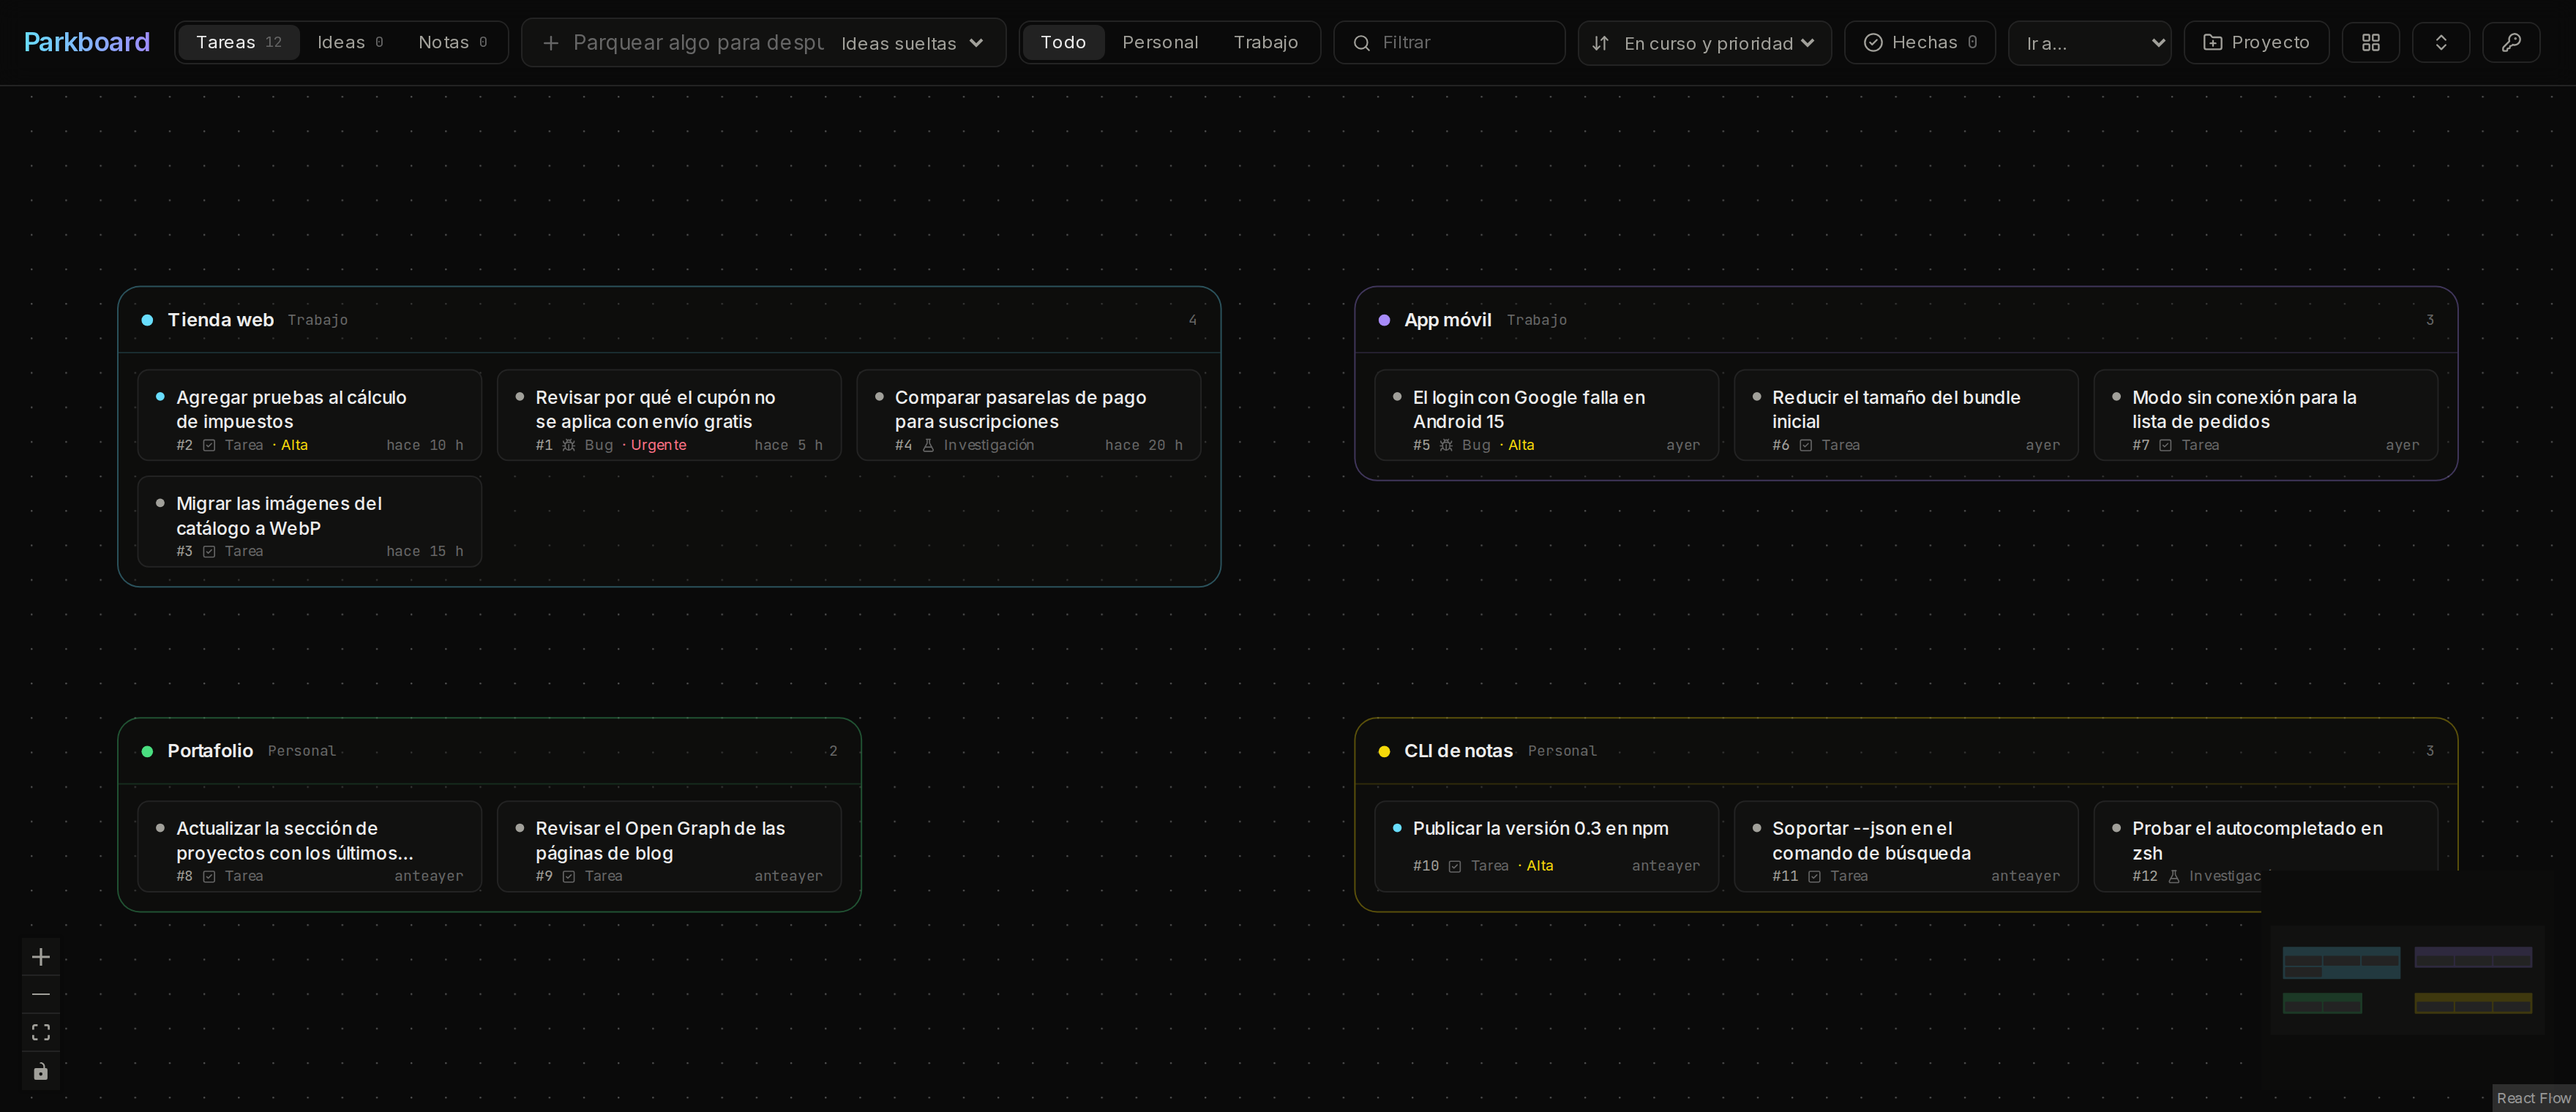
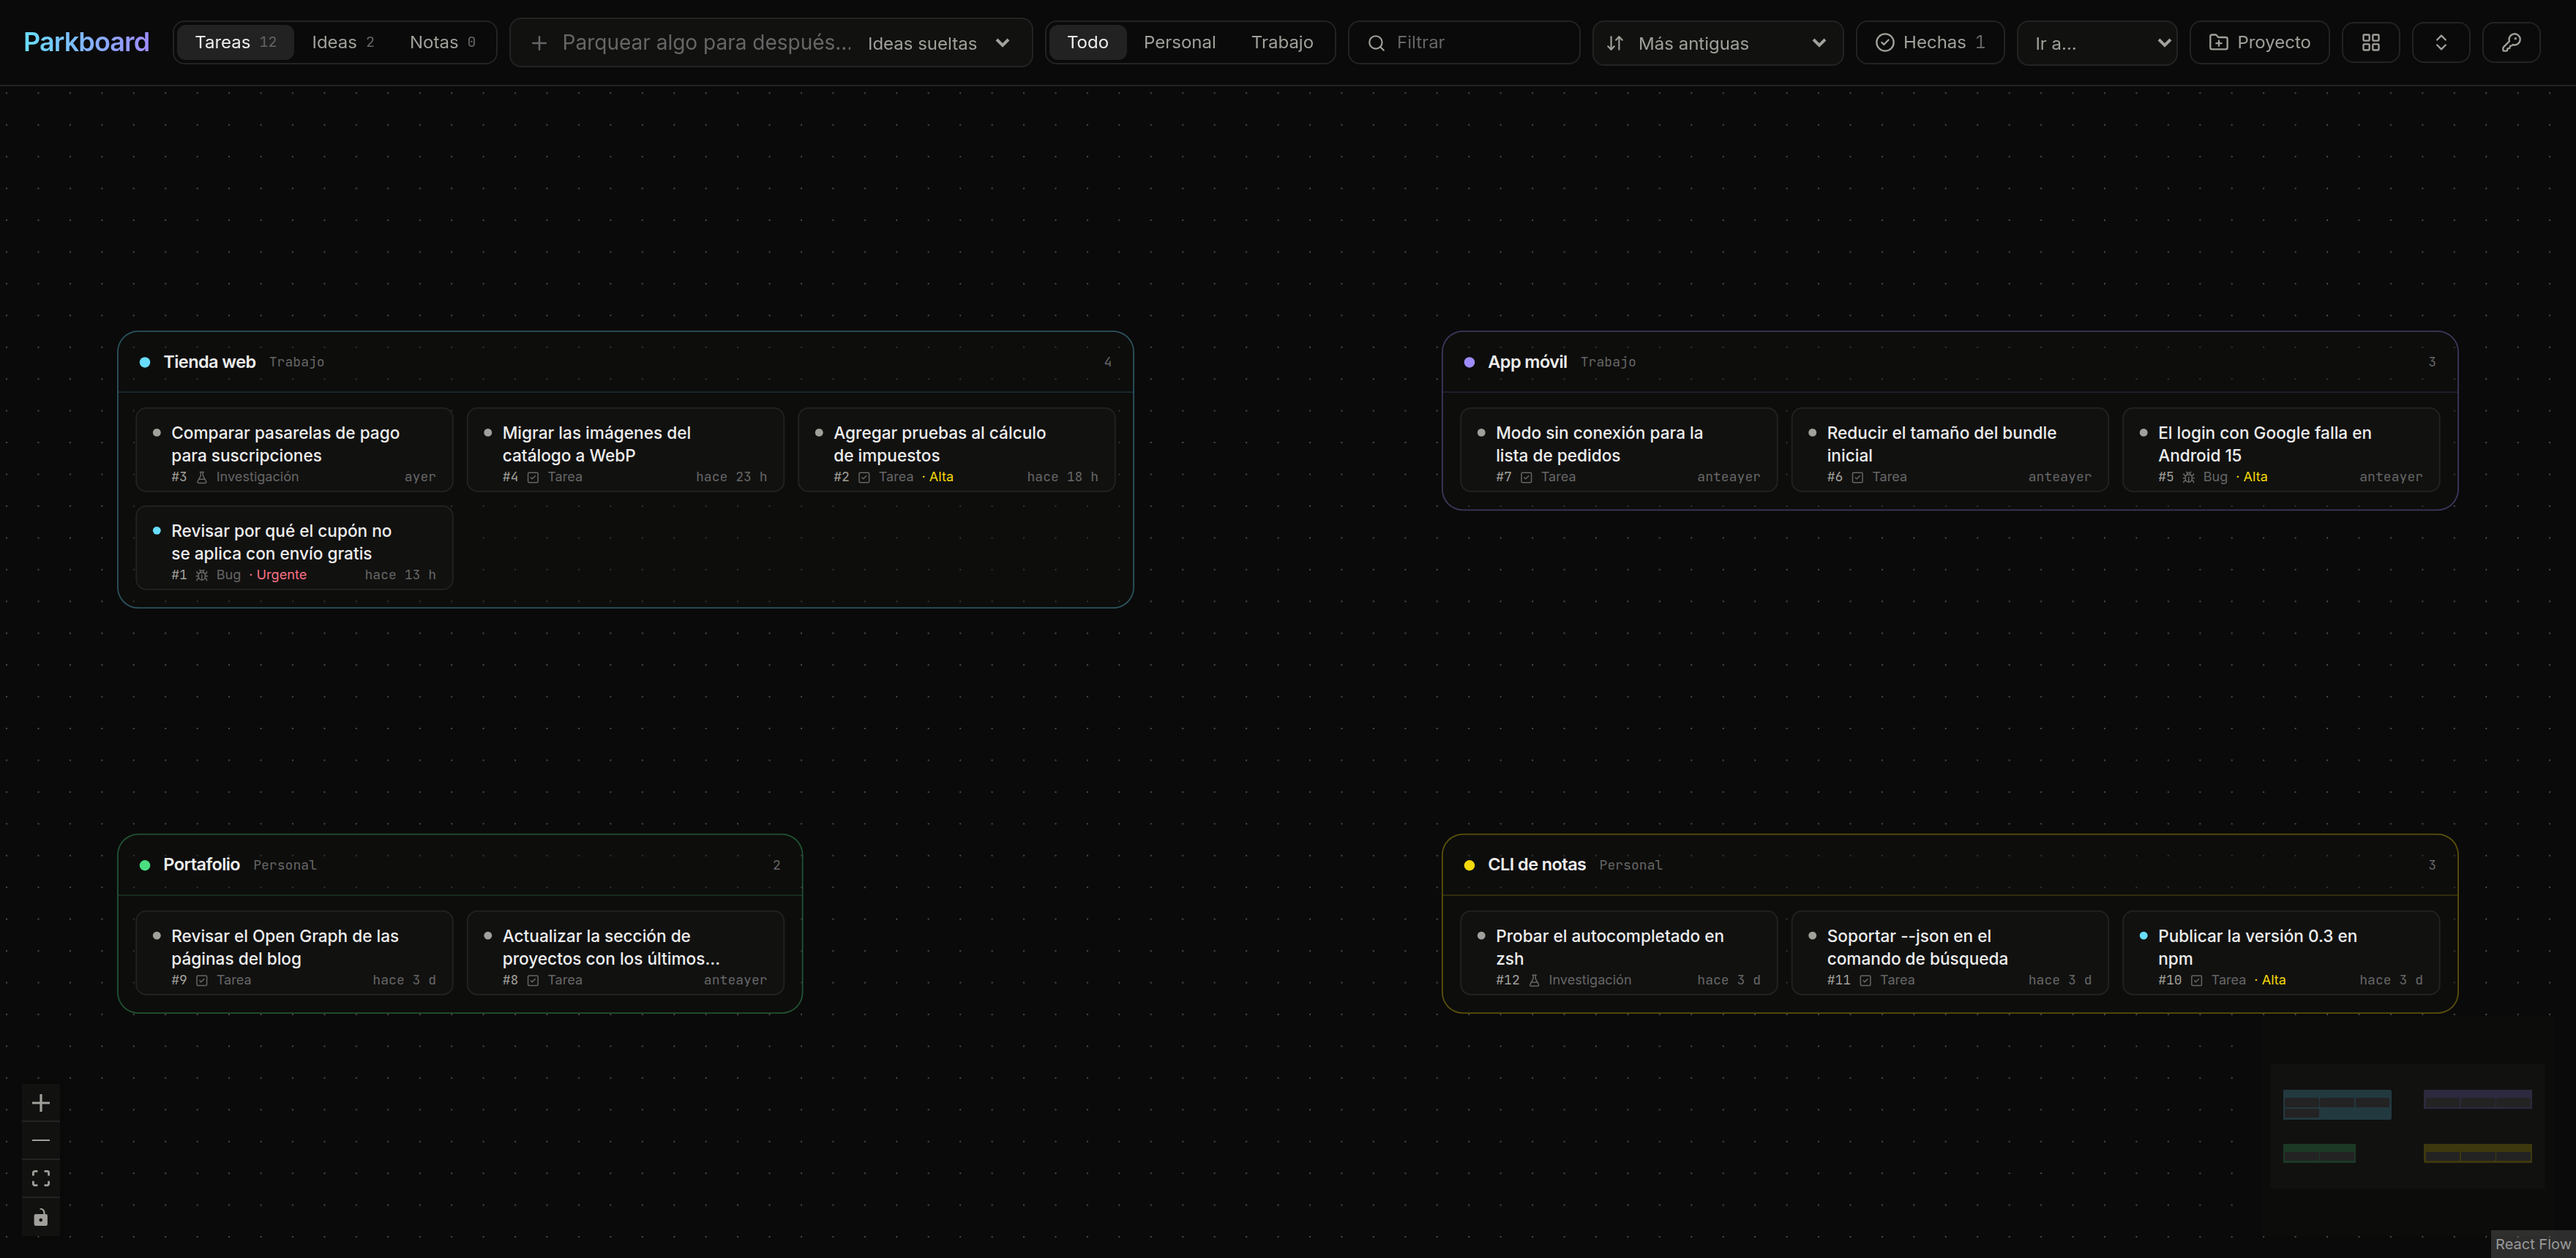
docs: README al día y capturas nuevas con datos de ejemplo
Cómo usarlo en parkboard.jato.run (clave desde la web e instalación del CLI con
curl), retomar la sesión de origen, panel de Hechas, park show/set/export,
privacidad y llms.txt. Captura del tablero y del detalle de una tarjeta, con
datos inventados; la landing usa la misma captura.

diff --git a/src/components/landing.tsx b/src/components/landing.tsx
@@ -230,7 +230,7 @@ export function Landing({ lang }: { lang: Lang }) {
             src="/screenshot.png"
             alt={c.shotAlt}
             width={3520}
-            height={1520}
+            height={1720}
             priority
             className="h-auto w-full rounded-xl border border-line"
           />

diff --git a/README.md b/README.md
@@ -3,6 +3,8 @@
 An infinite canvas for the things you park for later: tasks, ideas, bugs and research, grouped by project,
 with a CLI so your coding agents can park things for you when you say "let's leave that for later".
 
+**Use it free at [parkboard.jato.run](https://parkboard.jato.run)** (sign in with Google) or host it yourself.
+
 ![Parkboard: the Tasks view with cards grouped by project](docs/screenshot.png)
 
 ## Why
@@ -15,23 +17,45 @@ Parkboard keeps them in one place. The agent parks each one as it comes up, with
 and a link back to the session where it was born. Every pending item stays visible on the canvas, and getting back
 to it is one card away.
 
-- **Canvas**: projects are resizable groups; cards move between them by dragging. Each card has status, priority,
-  kind, notes, links, tags, and where it was born (origin and session).
+- **Canvas**: projects are groups that fit their cards; cards move between them by dragging. Each card has a short
+  number (#12), status, priority, kind, notes, links, tags, and where it was born (origin and session).
+- **Resume where it was born**: a card parked by Claude Code or Codex keeps the agent, the session id and the folder,
+  and offers the command to reopen that conversation (`claude --resume <id>` or `codex resume <id>`).
 - **Projects live while they have work**: parking into an unknown project creates it, and when its last open card is
   done, moved or deleted the project goes away (its done cards stay as loose ideas).
 - **Tasks, Ideas and Notes views**: the canvas shows one at a time (bugs and research go with tasks), so ideas and notes do not crowd the work.
-- **Personal and work areas**, text filter, done cards hidden by default.
+- **Personal and work areas**, text filter, and done cards out of the way in a Done panel grouped by day.
 - **CLI `park`** with no dependencies: JSON when piped, `--dry-run` on writes, `park schema` for agents.
 - **Encrypted at rest**: titles, notes, links, tags, project names and session details are stored with
   AES-256-GCM under a key kept outside the database (`PARKBOARD_ENCRYPTION_KEYS`), each value bound to its owner
   and field. Projects are found by a keyed hash of their slug (`PARKBOARD_INDEX_KEY`); text search decrypts in
   the server.
 - **Private by default**: one board per Clerk user, plus an optional email allowlist (`PARKBOARD_ALLOWED_EMAILS`).
-  The CLI uses API keys stored as SHA-256 hashes.
+  The CLI uses API keys stored as SHA-256 hashes, and `park export` saves your whole board as JSON. See the
+  [privacy policy](https://parkboard.jato.run/privacy).
+- **Readable by agents and search engines**: `/llms.txt` and `/llms-full.txt` describe Parkboard, the CLI and the API
+  for language models; `robots.txt` and `sitemap.xml` expose only the public pages.
+
+![A card's details: notes, links and the session it came from, with the command to resume it](docs/card.webp)
 
 Stack: Next.js 16, React 19, Tailwind 4, React Flow, Prisma 7 on Postgres, Clerk.
 
-## Run it
+## Use it
+
+1. Sign in at [parkboard.jato.run](https://parkboard.jato.run) with Google: you get your own empty board.
+2. Open **CLI** on the board, create a key and copy the `park config --url … --key pk_…` command it shows.
+3. Install the CLI (Node 20+, no dependencies) and run that command:
+
+   ```bash
+   curl -fsSL https://raw.githubusercontent.com/Jjat00/parkboard/main/cli/park.mjs -o ~/.local/bin/park
+   chmod +x ~/.local/bin/park
+   park config --url https://parkboard.jato.run --key pk_…
+   ```
+
+4. Tell your agent, in `CLAUDE.md`, `AGENTS.md` or similar, to park things with `park add` when you say "let's leave
+   that for later", and to run `park schema` to learn the commands.
+
+## Host it yourself
 
 ```bash
 pnpm install
@@ -66,15 +90,19 @@ The index key is not rotated.
 
 ## CLI
 
+On your own server, create keys from the web (**CLI** button) or with `pnpm key:create <name> <clerk-user-id>`, and
+link the CLI with `ln -s "$PWD/cli/park.mjs" ~/.local/bin/park`.
+
 ```bash
-pnpm key:create my-laptop     # prints a pk_… key once
-ln -s "$PWD/cli/park.mjs" ~/.local/bin/park
 park config --url https://your-board.example.com --key pk_…
 park add "Try surfacer on the recon report" -p google-flow --kind research --priority high
-park ls
-park done <id>
-park project ungga-crm --area work   # change a project's area (or --name to rename it)
-park project ungga-crm --delete --yes   # delete a project; its cards move to loose ideas
+park ls                                  # open cards; -q text to search, -p project to filter
+park show 12                             # everything about #12, including how to resume its session
+park set 12 --status doing               # or --priority, --project, --title…
+park done 12
+park export > board.json                 # the whole board, done cards included
+park project ungga-crm --area work       # change a project's area (or --name to rename it)
+park project ungga-crm --delete --yes    # delete a project; its cards move to loose ideas
 ```
 
 Agents: `park schema` prints every command, flag and exit code as JSON.
@@ -86,7 +114,7 @@ All routes accept `Authorization: Bearer pk_…` or a Clerk session.
 | Method | Path | |
 |---|---|---|
 | GET | `/api/board` | projects and cards |
-| GET, POST | `/api/cards` | `?status=open\|idea\|pending\|doing\|done&project=&q=` |
-| GET, PATCH, DELETE | `/api/cards/:id` | |
+| GET, POST | `/api/cards` | `?status=open\|idea\|pending\|doing\|done&project=&q=&limit=` |
+| GET, PATCH, DELETE | `/api/cards/:id` | the id or the short number |
 | GET, POST | `/api/projects` | |
-| PATCH, DELETE | `/api/projects/:id` | deleting a project moves its cards to the inbox |
+| PATCH, DELETE | `/api/projects/:id` | deleting a project turns its cards into loose ideas |
